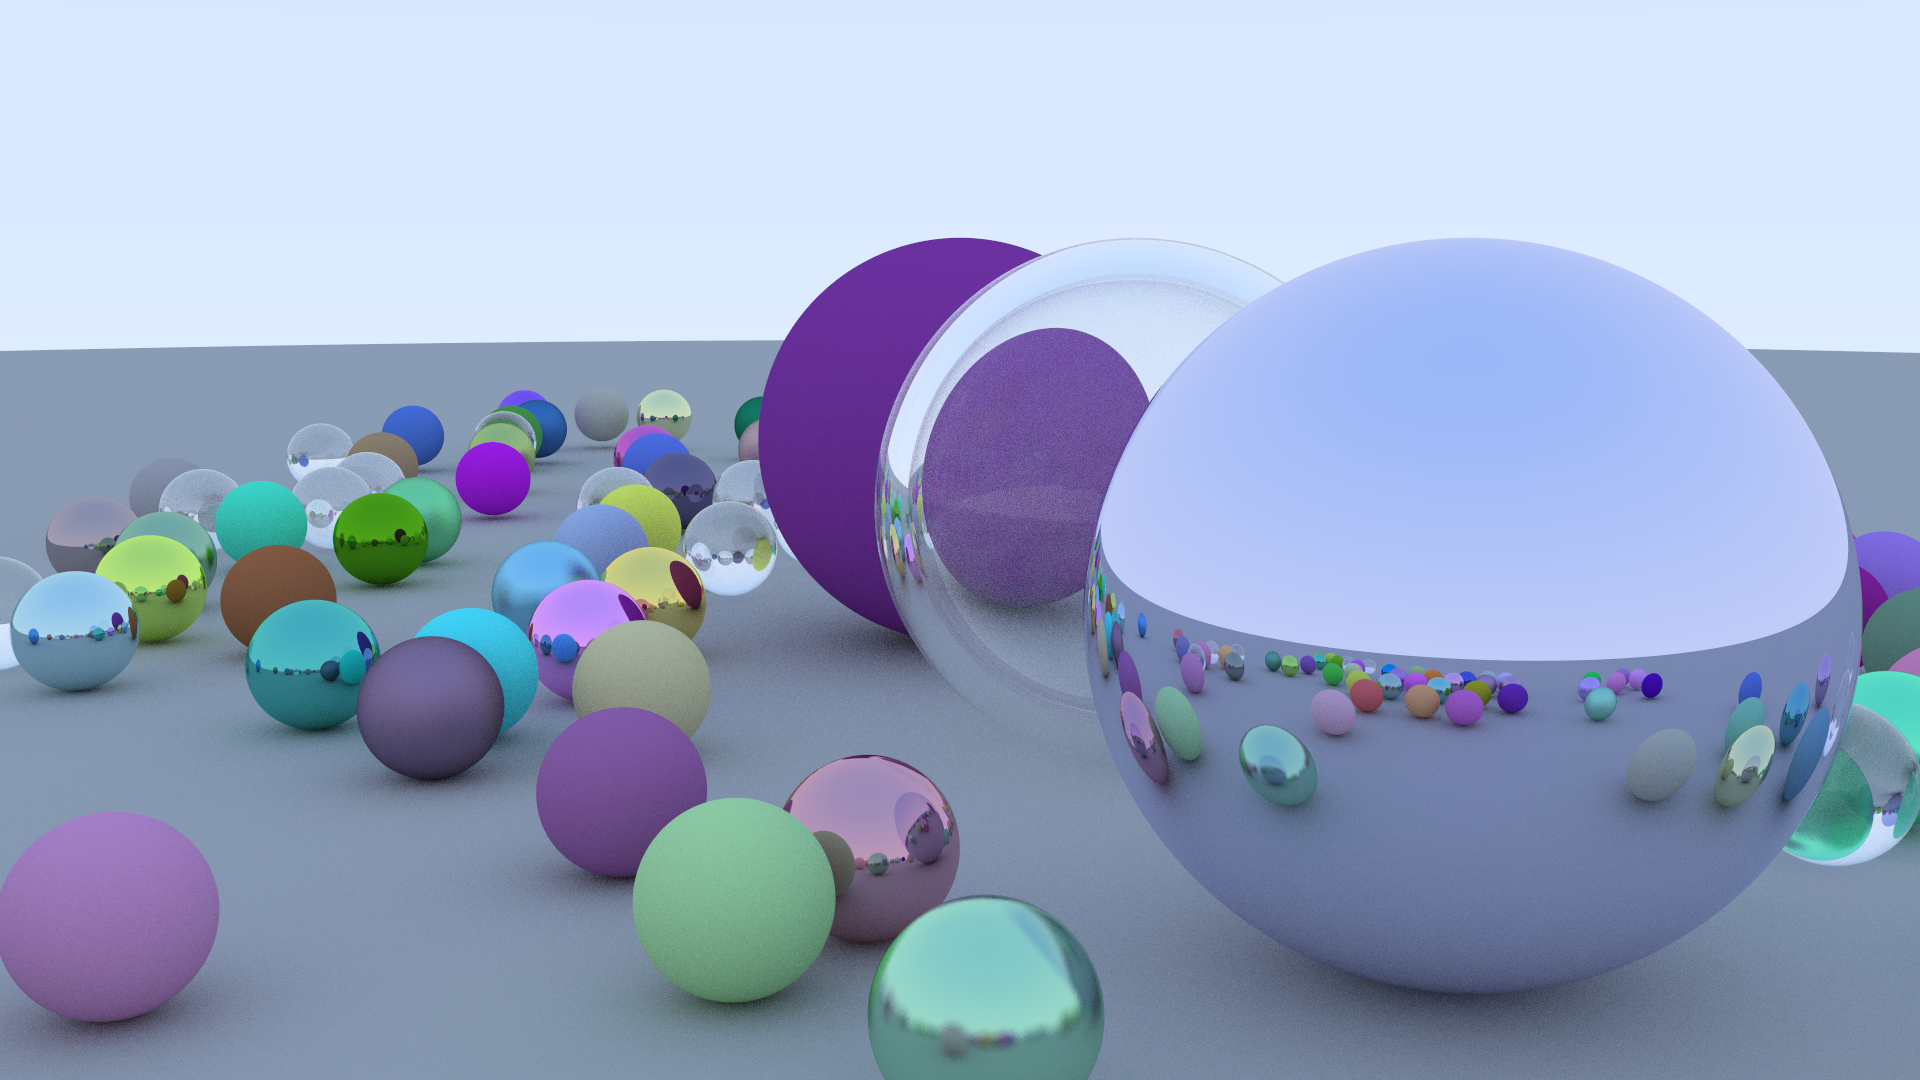
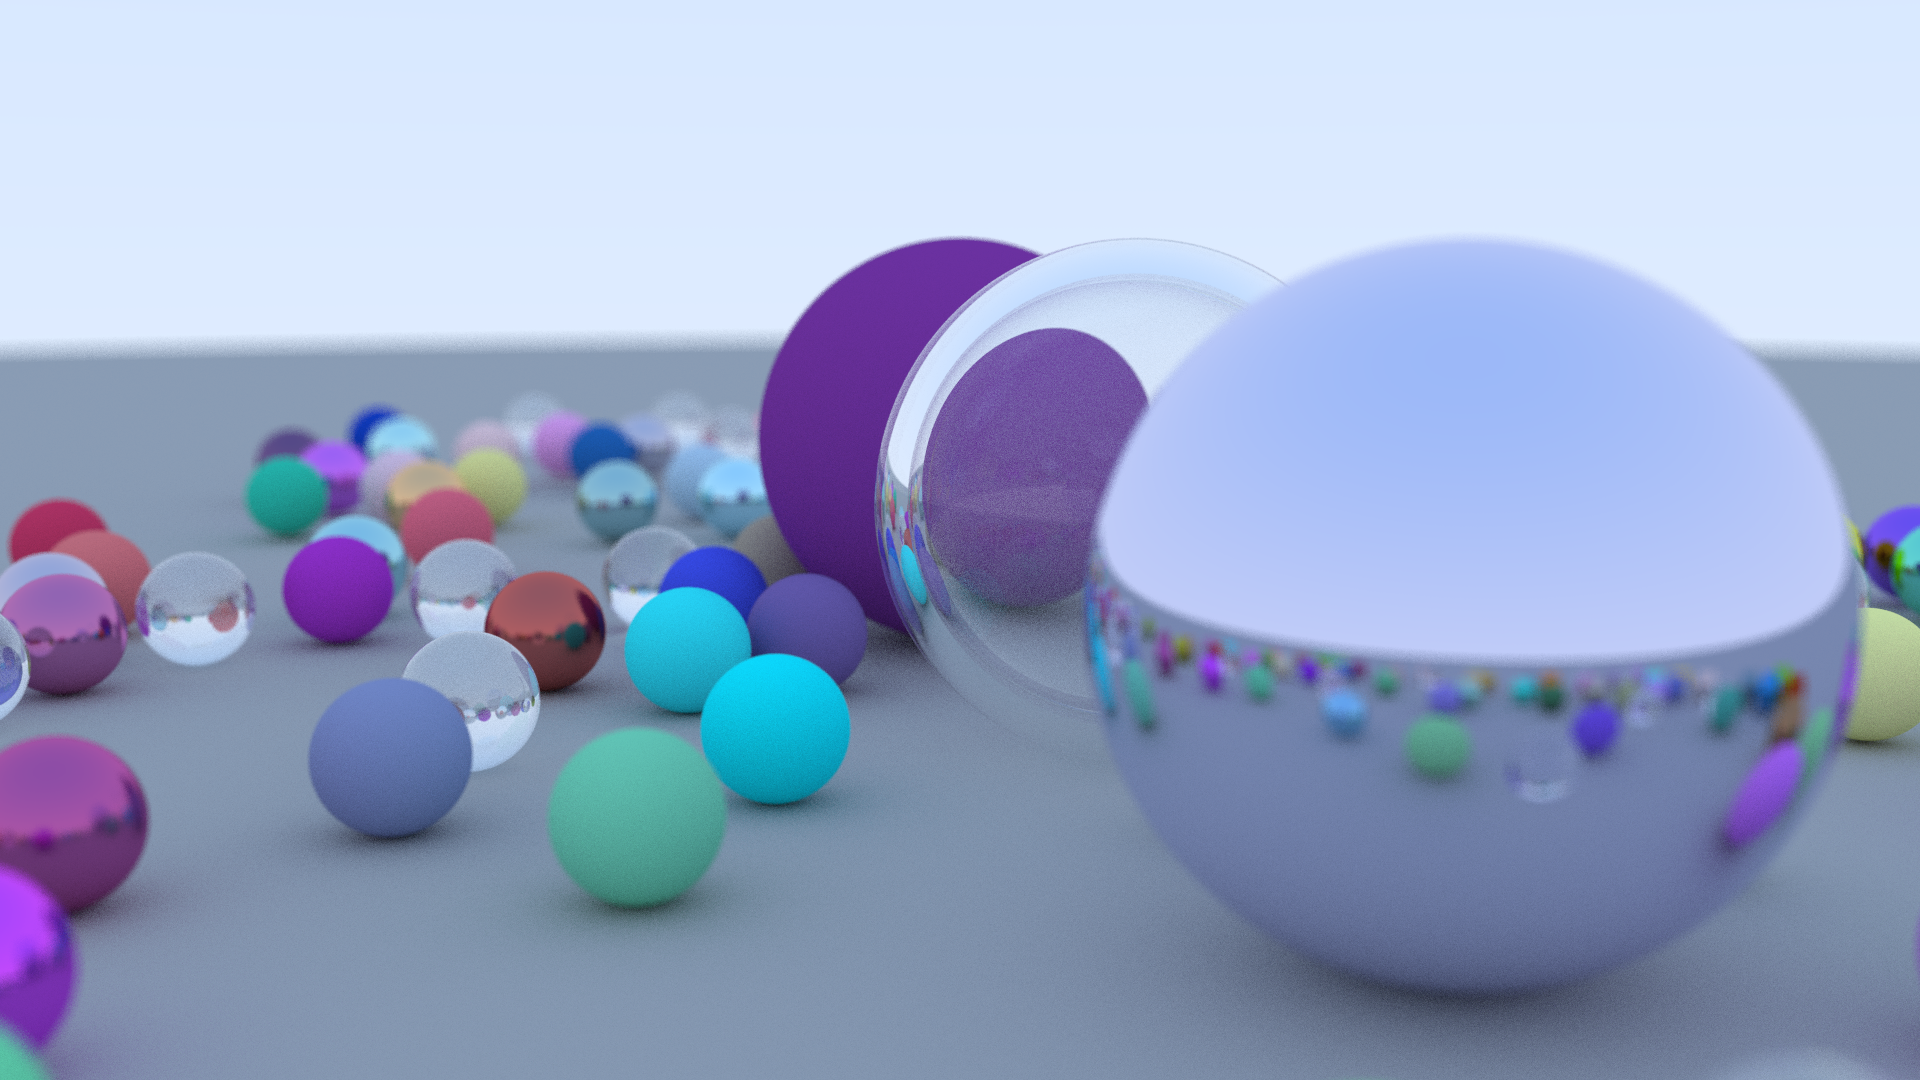
Added the focus distance function

diff --git a/src/lib.rs b/src/lib.rs
@@ -16,7 +16,12 @@ use crate::{world::World, color::Color};
 pub struct Camera {
     center : Point<f64>,
     dir : Point<f64>,
-    focal_lenght : f64,
+    lens_radius : f64,
+    focus_dist : f64,
+
+    w : Point<f64>, //Looking direction vector (unit)
+    u : Point<f64>, //Horizontal direction vector (unit)
+    v : Point<f64>, //Vertical direction vector (unit)
 
     viewport_width : f64,
     viewport_height : f64,
@@ -29,16 +34,15 @@ pub struct Camera {
 }
 
 impl Camera{
-    pub fn new(origin : Point<f64>, lookat : Point<f64> , image_width : u32, aspect_ratio : f64, vfov : f64) -> Camera {
+    pub fn new(origin : Point<f64>, lookat : Point<f64> , image_width : u32, aspect_ratio : f64, vfov : f64, aperture : f64, focus_dist : f64) -> Camera {
         let image_height : u32 = ((image_width as f64)/aspect_ratio) as u32;
 
 
         let theta = vfov.to_radians();
-        let h = (theta/2.).tan();
+        let h = (theta/2.).tan()*focus_dist;
         let viewport_height = 2.0*h;
         let viewport_width = viewport_height*((image_width as f64)/(image_height as f64));
         
-        let focal_lenght = 1.;
         let center : Point<f64> = origin;
         let look_dir : Point<f64> = (lookat-center).unit();
         let up : Point<f64> = Point { x: 0., y: 1., z: 0. };
@@ -51,7 +55,7 @@ impl Camera{
         let pixel_delta_u = viewport_u/(image_width as f64);
         let pixel_delta_v = viewport_v/(image_height as f64);
 
-        let pixel_up_left = center + look_dir - viewport_u/2.0 - viewport_v/2.0;
+        let pixel_up_left = center + look_dir*focus_dist - viewport_u/2.0 - viewport_v/2.0;
         let pixel00_loc = pixel_up_left + pixel_delta_u*0.5 + pixel_delta_v*0.5;
 
 
@@ -59,7 +63,13 @@ impl Camera{
         Camera { 
             center, 
             dir : look_dir,
-            focal_lenght,
+            lens_radius : aperture/2.0,
+            focus_dist,
+
+            w : look_dir,
+            v : vup,
+            u : uup,
+
             viewport_width,
             viewport_height,
             pixel_delta_u,
@@ -72,17 +82,23 @@ impl Camera{
     }
 
     pub fn pixel_ray(&self, i : u32, j:u32) -> Ray {
+        //Antialiasing random on the position of the pixel center
         let mut rng = rand::thread_rng();
         let alpha : f64 = rng.gen::<f64>() - 0.5;
         let beta : f64 = rng.gen::<f64>() - 0.5;
-        let pixel_center = self.pixel00_loc + self.pixel_delta_u*i + self.pixel_delta_u*alpha + self.pixel_delta_v*j + self.pixel_delta_v*beta;
-        let dir = pixel_center - self.center;
-        Ray::new(pixel_center, dir, 0)
+        
+        //Focus distance : random on the position of the pixel origin
+        let rd = Point::random_in_circle(self.lens_radius);
+        let offset = self.u * rd.x + self.v * rd.y;
+
+        let ray_origin = self.center + offset;
+        let dir = self.pixel00_loc + self.pixel_delta_u*i + self.pixel_delta_u*alpha  + self.pixel_delta_v*j + self.pixel_delta_v*beta - ray_origin;
+        Ray::new(ray_origin, dir, 0)
     }
 }
 
 pub fn scene1(img_width : u32) -> (Camera, World) {
-    let camera : Camera = Camera::new(Point { x: 1., y: 0.5, z: 2. },Point { x: 0.0, y: -0.5, z: -3.0 } , img_width, 16.0/9.0, 45.);
+    let camera : Camera = Camera::new(Point { x: 1., y: 0.5, z: 2. },Point { x: 0.0, y: -0.5, z: -3.0 } , img_width, 16.0/9.0, 45., 0.2, 5.0);
 
     let mut world = World::new();
 
@@ -98,14 +114,14 @@ pub fn scene1(img_width : u32) -> (Camera, World) {
     world.add_sphere(Point { x: -1.0, y: -0.8, z: -3.0 }, 0.2, Rc::clone(&bleu_met));
     world.add_sphere(Point { x: -0.0, y: -0.8, z: -4.3 }, 0.2, Rc::clone(&rouge_met));
     world.add_sphere(Point { x: 1.0, y: -0.5, z: -3.0 }, 0.5, Rc::clone(&bleu_dif));
-    world.add_sphere(Point { x: -2.0, y: 0.0, z: -3.0 }, 1., Rc::clone(&jaune_dif));
+    world.add_sphere(Point { x: -2.0, y: 0.0, z: -4.5 }, 1., Rc::clone(&jaune_dif));
     world.add_sphere(Point { x: 0.0, y: -1001., z: -3. }, 1000., Rc::clone(&gris_dif));
 
     (camera, world)
 }
 
 pub fn scene2(img_width : u32) -> (Camera, World) {
-    let camera : Camera = Camera::new(Point { x: -1., y: 1.5, z: 2. },Point { x: -1.0, y: 0.75, z: -3.0 } , img_width, 16.0/9.0, 30.);
+    let camera : Camera = Camera::new(Point { x: -1., y: 1.5, z: 2. },Point { x: -1.0, y: 0.75, z: -3.0 } , img_width, 16.0/9.0, 30., 0.08, 5.90);
 
     let mut world = World::new();
 

diff --git a/src/point.rs b/src/point.rs
@@ -16,6 +16,13 @@ impl Point<f64> {
             z: (rand::random::<f64>()*(max-min))+min,
         }
     }
+
+    pub fn random_in_circle(radius : f64) -> Point<f64> {
+        Point { x: rand::random::<f64>()*2.-1.,
+            y: rand::random::<f64>()*2.-1.,
+            z: 0. } * radius
+    }
+
     pub fn random_in_sphere(radius : f64) -> Point<f64> {
         loop {
             let p = Point::random(-radius, radius);

diff --git a/README.md b/README.md
@@ -1,19 +1,21 @@
-#What is this ?
+# Raysen : 
+
+## What is this ?
 This is an implementation in Rust of a ray-tracer following (for the moment) the tutorial : 
 
 [_https://github.com/RayTracing/raytracing.github.io_](https://github.com/RayTracing/raytracing.github.io)
 
-#How to use it ?
+## How to use it ?
 The simplest way to use the render is to execute the script `run.sh` wich will produce a .png of the result.
 
 Otherwise the render output the resulting image on the stdout, in the ppm format. The progress status is outputed on the stderr. 
 
-#Showcase :
-Most of the first book is implemented. Here is a image the motor rendered : 
+## Showcase :
+Most the first book is implemented. Here is a image the motor rendered : 
 
 ![Image with a lot of balls](showcase.png "A nice render")
 
-#Where is this going ?
+## Where this is going ?
 This is the begining of a bigger project to make a ray-tracing renderer in Rust with GPU acceleration using WebGPU.
 
 
